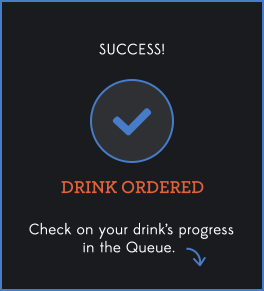
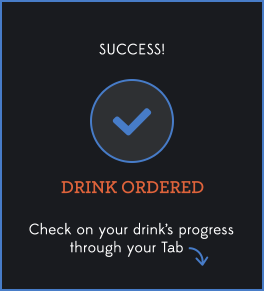
Refactor and add my tab

Changed region(s): [[0.2424, 0.8041, 0.7879, 0.9278]]

diff --git a/Crowded/CDBarTabViewController.m b/Crowded/CDBarTabViewController.m
@@ -1,25 +1,25 @@
 //
-//  CDOrderQueueViewController.m
+//  CDBarTabViewController.m
 //  Crowded
 //
 //  Created by Matt Bridges on 6/8/14.
 //  Copyright (c) 2014 Intrepid. All rights reserved.
 //
 
-#import "CDOrderQueueViewController.h"
-#import "CDOrder.h"
-#import "CDOrderQueueTableViewCell.h"
-#import "Common.h"
+#import "CDBarTabViewController.h"
 #import "CDWebService.h"
+#import "CDOrder.h"
+#import "CDBarTabTableViewCell.h"
+#import "Common.h"
 #import <SVProgressHUD/SVProgressHUD.h>
 
-@interface CDOrderQueueViewController () <UITableViewDataSource, UITableViewDelegate>
+@interface CDBarTabViewController ()
+@property (weak, nonatomic) IBOutlet UITableView *tableView;
 @property (nonatomic) NSArray *orders;
 @property (nonatomic) CDWebService *webService;
-@property (weak, nonatomic) IBOutlet UITableView *tableView;
 @end
 
-@implementation CDOrderQueueViewController
+@implementation CDBarTabViewController
 
 - (instancetype)initWithNibName:(NSString *)nibNameOrNil bundle:(NSBundle *)nibBundleOrNil
 {
@@ -35,28 +35,36 @@
     [super viewDidLoad];
     // Do any additional setup after loading the view.
     
-    self.navigationItem.title = @"Order Queue";
+    self.navigationItem.title = @"My Tab";
     self.webService = [[CDWebService alloc] init];
+    
     [self doPoll];
 }
 
-#warning TODO: Prune to at most 3 ready orders.
 - (void)doPoll {
-    __weak CDOrderQueueViewController *weakSelf = self;
     dispatch_after(dispatch_time(DISPATCH_TIME_NOW, (int64_t)(2.0 * NSEC_PER_SEC)), dispatch_get_main_queue(), ^{
-        NSLog(@"Polling from %p", self);
-        [weakSelf.webService getOrdersForVenue:@"0" completion:^(NSError *error, id result) {
-            if (!error && [result isKindOfClass:[NSArray class]] && [weakSelf ordersAreNew:result]) {
-                weakSelf.orders = result;
-                [weakSelf.tableView reloadSections:[NSIndexSet indexSetWithIndex:0] withRowAnimation:UITableViewRowAnimationFade];
+        NSLog(@"Polling Tab");
+        [self.webService getOrdersForVenue:@"0" completion:^(NSError *error, id result) {
+            if (!error && [result isKindOfClass:[NSArray class]] ) {
+                
+                NSArray *filtered = [result filteredArrayUsingPredicate:[NSPredicate predicateWithBlock:^BOOL(id evaluatedObject, NSDictionary *bindings) {
+                    if ([evaluatedObject isKindOfClass:[CDOrder class]]) {
+                        CDOrder *order = evaluatedObject;
+                        return [order.userId isEqualToString:@"0"];
+                    } else {
+                        return false;
+                    }
+                }]];
+                
+                if ([self ordersAreNew:filtered]) {
+                    self.orders = filtered;
+                    [self.tableView reloadSections:[NSIndexSet indexSetWithIndex:0] withRowAnimation:UITableViewRowAnimationFade];
+                }
                 
             }
             
-#warning Can't seem to get this VC to dealloc with the __weak above. Workaround by checking if view is on screen.
-            if (self.view.window) {
-                [self doPoll];
-            }
-
+            [self doPoll];
+            
         }];
     });
 }
@@ -65,7 +73,11 @@
     for (int i = 0; i < MIN(self.orders.count, orders.count); i++) {
         CDOrder *left = orders[i];
         CDOrder *right = self.orders[i];
-        if (![left.orderId isEqualToString:right.orderId] || left.ready != right.ready) {
+        if (![left.orderId isEqualToString:right.orderId]) {
+            return YES;
+        }
+        if (left.ready != right.ready && left.ready) {
+            self.navigationController.tabBarItem.badgeValue = @"1";
             return YES;
         }
     }
@@ -73,39 +85,29 @@
 }
 
 - (void)viewWillAppear:(BOOL)animated {
+    self.navigationController.tabBarItem.badgeValue = nil;
     [SVProgressHUD show];
     [self.webService getOrdersForVenue:@"0" completion:^(NSError *error, id result) {
         if (!error && [result isKindOfClass:[NSArray class]]) {
             [SVProgressHUD dismiss];
-            self.orders = result;
+
+            NSArray *filtered = [result filteredArrayUsingPredicate:[NSPredicate predicateWithBlock:^BOOL(id evaluatedObject, NSDictionary *bindings) {
+                if ([evaluatedObject isKindOfClass:[CDOrder class]]) {
+                    CDOrder *order = evaluatedObject;
+                    return [order.userId isEqualToString:@"0"];
+                } else {
+                    return false;
+                }
+            }]];
+            
+            self.orders = filtered;
             [self.tableView reloadSections:[NSIndexSet indexSetWithIndex:0] withRowAnimation:UITableViewRowAnimationFade];
+            
+        
         } else {
             [SVProgressHUD showErrorWithStatus:@"Oops! Something went wrong."];
         }
     }];
-}
-
-- (NSArray *)dummyOrders {
-    NSMutableArray *orders = [NSMutableArray array];
-    
-    for (int i = 0; i < 8; i++) {
-        CDOrder *order = [[CDOrder alloc] init];
-        order.userName = @"Matt B.";
-        order.itemName = @"SMUTTYNOSE BROWN DOG ALE";
-        order.userImage = @"photo_1.png";
-        order.creationTimestamp = [NSDate date];
-        order.readyTimestamp = [NSDate date];
-        order.ready = NO;
-        [orders addObject:order ];
-    }
-
-    return orders;
-}
-
-- (void)didReceiveMemoryWarning
-{
-    [super didReceiveMemoryWarning];
-    // Dispose of any resources that can be recreated.
 }
 
 - (NSInteger)tableView:(UITableView *)tableView numberOfRowsInSection:(NSInteger)section {
@@ -117,25 +119,28 @@
 }
 
 - (UITableViewCell *)tableView:(UITableView *)tableView cellForRowAtIndexPath:(NSIndexPath *)indexPath {
-    CDOrderQueueTableViewCell *cell = [tableView dequeueReusableCellWithIdentifier:@"orderQueueCell" forIndexPath:indexPath];
+    CDBarTabTableViewCell *cell = [tableView dequeueReusableCellWithIdentifier:@"barTabCell" forIndexPath:indexPath];
     CDOrder *order = self.orders[indexPath.row];
     [self configureCell:cell withOrder:order];
     return cell;
 }
 
-- (void)configureCell:(CDOrderQueueTableViewCell *)cell withOrder:(CDOrder *)order {
-    cell.userNameLabel.text = order.userName;
+- (void)configureCell:(CDBarTabTableViewCell *)cell withOrder:(CDOrder *)order {
     cell.itemNameLabel.text = [order.itemName capitalizedString];
+#warning TODO: set price label text
     if (order.ready) {
         cell.statusImageView.image = [UIImage imageNamed:@"status_done.png"];
         cell.containerView.layer.borderColor = UIColorFromRGB(0xDD6342).CGColor;
-        cell.userNameLabel.textColor = UIColorFromRGB(0xDD6342);
     } else {
         cell.statusImageView.image = [UIImage imageNamed:@"status_in_line.png"];
         cell.containerView.layer.borderColor = UIColorFromRGB(0x4A7EC5).CGColor;
-        cell.userNameLabel.textColor = UIColorFromRGB(0x4A7EC5);
     }
-    cell.avatarImageView.image = [UIImage imageNamed:order.userImage];
+}
+
+- (void)didReceiveMemoryWarning
+{
+    [super didReceiveMemoryWarning];
+    // Dispose of any resources that can be recreated.
 }
 
 /*

diff --git a/Crowded/CDWebService.m b/Crowded/CDWebService.m
@@ -131,14 +131,16 @@
             order.readyTimestamp = [self dateFromString:orderJson[@"readyTimestamp"]];
             order.creationTimestamp = [self dateFromString:orderJson[@"creationTimestamp"]];
             order.orderId = orderJson[@"_id"];
+            order.userId = orderJson[@"user_id"];
         
             [orders addObject:order];
         }
     }
     
     NSSortDescriptor *creation = [[NSSortDescriptor alloc] initWithKey:@"creationTimestamp" ascending:YES];
-    NSSortDescriptor *ready = [[NSSortDescriptor alloc] initWithKey:@"readyTimestamp" ascending:YES];
-    [orders sortUsingDescriptors:@[ready, creation]];
+    NSSortDescriptor *readyTime = [[NSSortDescriptor alloc] initWithKey:@"readyTimestamp" ascending:YES];
+    NSSortDescriptor *ready = [[NSSortDescriptor alloc] initWithKey:@"ready" ascending:NO];
+    [orders sortUsingDescriptors:@[ready, readyTime, creation]];
     return orders;
 }
 

diff --git a/Crowded/CDBarTabTableViewCell.m b/Crowded/CDBarTabTableViewCell.m
@@ -1,0 +1,34 @@
+//
+//  CDBarTabTableViewCell.m
+//  Crowded
+//
+//  Created by Matt Bridges on 6/8/14.
+//  Copyright (c) 2014 Intrepid. All rights reserved.
+//
+
+#import "CDBarTabTableViewCell.h"
+
+@implementation CDBarTabTableViewCell
+
+- (instancetype)initWithStyle:(UITableViewCellStyle)style reuseIdentifier:(NSString *)reuseIdentifier
+{
+    self = [super initWithStyle:style reuseIdentifier:reuseIdentifier];
+    if (self) {
+        // Initialization code
+    }
+    return self;
+}
+
+- (void)awakeFromNib
+{
+    // Initialization code
+}
+
+- (void)setSelected:(BOOL)selected animated:(BOOL)animated
+{
+    [super setSelected:selected animated:animated];
+
+    // Configure the view for the selected state
+}
+
+@end

diff --git a/Crowded/CDBarTabTableViewCell.h b/Crowded/CDBarTabTableViewCell.h
@@ -1,0 +1,16 @@
+//
+//  CDBarTabTableViewCell.h
+//  Crowded
+//
+//  Created by Matt Bridges on 6/8/14.
+//  Copyright (c) 2014 Intrepid. All rights reserved.
+//
+
+#import <UIKit/UIKit.h>
+
+@interface CDBarTabTableViewCell : UITableViewCell
+@property (weak, nonatomic) IBOutlet UILabel *priceLabel;
+@property (weak, nonatomic) IBOutlet UILabel *itemNameLabel;
+@property (weak, nonatomic) IBOutlet UIImageView *statusImageView;
+@property (weak, nonatomic) IBOutlet UIView *containerView;
+@end

diff --git a/Crowded/CDBarTabViewController.h b/Crowded/CDBarTabViewController.h
@@ -1,0 +1,13 @@
+//
+//  CDBarTabViewController.h
+//  Crowded
+//
+//  Created by Matt Bridges on 6/8/14.
+//  Copyright (c) 2014 Intrepid. All rights reserved.
+//
+
+#import <UIKit/UIKit.h>
+
+@interface CDBarTabViewController : UIViewController
+
+@end

diff --git a/Crowded/CDOrder.h b/Crowded/CDOrder.h
@@ -16,4 +16,5 @@
 @property (nonatomic) NSDate *readyTimestamp;
 @property (nonatomic) BOOL ready;
 @property (nonatomic) NSString *orderId;
+@property (nonatomic) NSString *userId;
 @end
